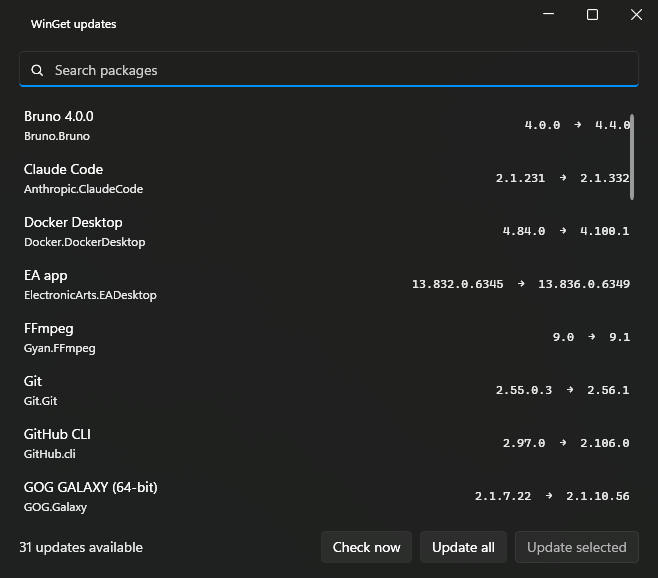
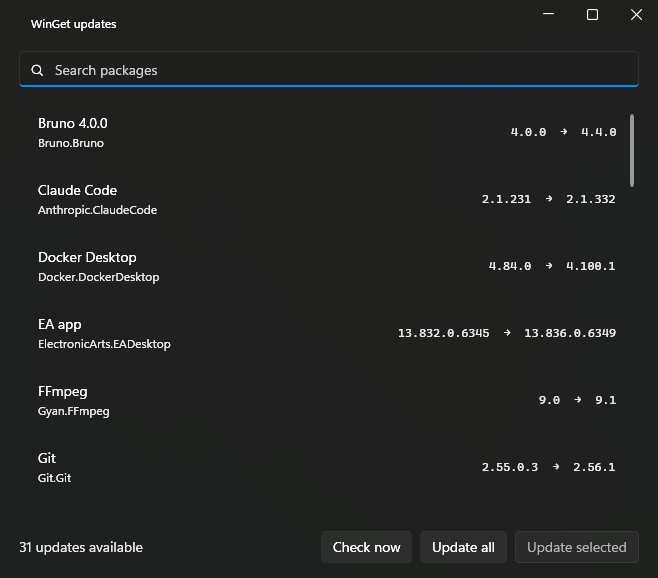
fix(ui): pad list rows so text clears the selection indicator
Rows had no inset, so the package name sat against the Fluent selection bar
at the row edge. 14 px horizontal / 9 px vertical padding now, and a fresh
screenshot.

diff --git a/src/WinGetTray/UpdatesWindow.xaml b/src/WinGetTray/UpdatesWindow.xaml
@@ -43,7 +43,8 @@
                          SelectionChanged="List_SelectionChanged">
                 <ui:ListView.ItemTemplate>
                     <DataTemplate>
-                        <Grid Margin="0,2">
+                        <!-- Inset text from the row edge so it clears the selection indicator. -->
+                        <Grid Margin="14,9,14,9">
                             <Grid.ColumnDefinitions>
                                 <ColumnDefinition Width="*" />
                                 <ColumnDefinition Width="Auto" />
